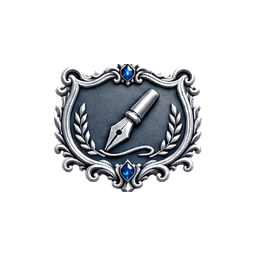
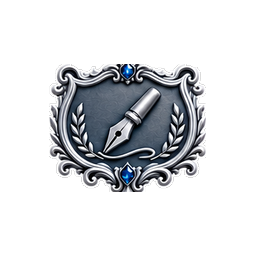
fix: preserve shield interior when slicing badge PNGs
RGB grids are not transparent uploads — stop global white keying that ate
silver highlights and engraving. Blob-find on content mask; key only sheet
white away from metal. Transparent RGBA sources slice crop-only.

Changed region(s): [[0.1875, 0.25, 0.8125, 0.75]]

diff --git a/scripts/slice-skill-tier-badges.py b/scripts/slice-skill-tier-badges.py
@@ -34,11 +34,72 @@ LEGACY_GUTTER_Y = 0.03
 ALPHA_THRESHOLD = 48
 KEY_WHITE_CUTOFF = 28
 KEY_WHITE_FEATHER = 52
+KEY_WHITE_SHEET_FLOOD = 18
+TRANSPARENT_BG_RATIO = 0.05
 
 
-def key_white_sheet_to_alpha(image: Image.Image) -> Image.Image:
-    """White sheet with no baked drop shadows — simple distance key is enough."""
-    return key_background_to_alpha(image)
+def source_has_transparent_background(image: Image.Image) -> bool:
+    """Owner grid with keyed sheet — slice is crop-only, no white-distance key."""
+    if image.mode not in ("RGBA", "LA"):
+        return False
+    rgba = image.convert("RGBA")
+    alpha = rgba.split()[3]
+    transparent = sum(1 for a in alpha.getdata() if a < 16)
+    return transparent > rgba.size[0] * rgba.size[1] * TRANSPARENT_BG_RATIO
+
+
+def _content_alpha_band(row_rgb: Image.Image) -> Image.Image:
+    """Mask for blob find — any pixel darker than sheet white counts as shield."""
+    rgba = row_rgb.convert("RGBA")
+    pixels = rgba.load()
+    width, height = rgba.size
+    for y in range(height):
+        for x in range(width):
+            r, g, b, _ = pixels[x, y]
+            if max(255 - r, 255 - g, 255 - b) > KEY_WHITE_SHEET_FLOOD:
+                pixels[x, y] = (r, g, b, 255)
+            else:
+                pixels[x, y] = (r, g, b, 0)
+    return rgba
+
+
+def key_cell_rgb_sheet(cropped: Image.Image) -> Image.Image:
+    """Transparent only for sheet-white pixels not near shield metal (engraving stays)."""
+    rgba = cropped.convert("RGBA")
+    width, height = rgba.size
+    pixels = rgba.load()
+    content = [
+        [
+            max(255 - pixels[x, y][0], 255 - pixels[x, y][1], 255 - pixels[x, y][2])
+            > KEY_WHITE_SHEET_FLOOD
+            for x in range(width)
+        ]
+        for y in range(height)
+    ]
+    near_content = [[False] * width for _ in range(height)]
+    reach = 2
+    for y in range(height):
+        for x in range(width):
+            if content[y][x]:
+                near_content[y][x] = True
+                continue
+            for dy in range(-reach, reach + 1):
+                for dx in range(-reach, reach + 1):
+                    ny, nx = y + dy, x + dx
+                    if 0 <= ny < height and 0 <= nx < width and content[ny][nx]:
+                        near_content[y][x] = True
+                        break
+                if near_content[y][x]:
+                    break
+
+    for y in range(height):
+        for x in range(width):
+            r, g, b, _ = pixels[x, y]
+            if near_content[y][x]:
+                pixels[x, y] = (r, g, b, 255)
+            else:
+                pixels[x, y] = (r, g, b, 0)
+    return rgba
 
 
 def key_background_to_alpha(image: Image.Image) -> Image.Image:
@@ -58,7 +119,7 @@ def key_background_to_alpha(image: Image.Image) -> Image.Image:
     return rgba
 
 
-def crop_cell_legacy(image: Image.Image, col: int, row: int) -> Image.Image:
+def crop_cell_legacy(image: Image.Image, col: int, row: int, *, sheet_alpha: bool) -> Image.Image:
     width, height = image.size
     cell_w = width / len(SKILLS)
     cell_h = height / len(TIERS)
@@ -77,7 +138,10 @@ def crop_cell_legacy(image: Image.Image, col: int, row: int) -> Image.Image:
     if row < len(TIERS) - 1:
         bottom -= cell_h * LEGACY_GUTTER_Y / 2
 
-    return image.crop((int(left), int(top), int(right), int(bottom)))
+    cropped = image.crop((int(left), int(top), int(right), int(bottom)))
+    if sheet_alpha:
+        return cropped.convert("RGBA")
+    return key_cell_rgb_sheet(cropped)
 
 
 def _column_counts(
@@ -188,7 +252,7 @@ def _split_row_blobs(keyed_row: Image.Image) -> list[tuple[int, int, int, int]]:
     return [(b[0], b[1], b[2], b[3]) for b in blobs[:len(SKILLS)]]
 
 
-def crop_cell_v2(image: Image.Image, col: int, row: int) -> Image.Image:
+def crop_cell_v2(image: Image.Image, col: int, row: int, *, sheet_alpha: bool) -> Image.Image:
     """Detect four badge blobs per row — v2 grid columns are not edge-aligned."""
     width, height = image.size
     cell_h = height / len(TIERS)
@@ -196,37 +260,48 @@ def crop_cell_v2(image: Image.Image, col: int, row: int) -> Image.Image:
     y1 = int((row + 1) * cell_h)
     pad_into_prev = int(cell_h * 0.14) if row > 0 else 0
 
-    row_rgb = image.crop((0, max(0, y0 - pad_into_prev), width, y1))
-    keyed_row = key_white_sheet_to_alpha(row_rgb)
+    row_box = (0, max(0, y0 - pad_into_prev), width, y1)
+    row_img = image.crop(row_box)
+    if sheet_alpha:
+        keyed_row = row_img.convert("RGBA")
+    else:
+        keyed_row = _content_alpha_band(row_img)
     blobs = _split_row_blobs(keyed_row)
 
     if len(blobs) < len(SKILLS):
-        return crop_cell_legacy(image, col, row)
+        return crop_cell_legacy(image, col, row, sheet_alpha=sheet_alpha)
 
     min_x, min_y, max_x, max_y = blobs[col]
     trimmed = _trim_vertical_bleed(keyed_row, (min_x, min_y, max_x, max_y))
     if trimmed[3] >= trimmed[1] and trimmed[2] >= trimmed[0]:
         min_x, min_y, max_x, max_y = trimmed
-    pad = max(3, int(cell_h * 0.03))
-    crop_box = (
-        max(0, min_x - pad),
-        max(0, min_y - pad),
-        min(keyed_row.size[0], max_x + pad + 1),
-        min(keyed_row.size[1], max_y + pad + 1),
-    )
-    return keyed_row.crop(crop_box)
+    crop_box = (min_x, min_y, max_x + 1, max_y + 1)
+    cropped = row_img.crop(crop_box)
+    if sheet_alpha:
+        return cropped.convert("RGBA")
+    return key_cell_rgb_sheet(cropped)
 
 
-def crop_cell(image: Image.Image, col: int, row: int, *, v2: bool) -> Image.Image:
+def crop_cell(
+    image: Image.Image,
+    col: int,
+    row: int,
+    *,
+    v2: bool,
+    sheet_alpha: bool,
+) -> Image.Image:
     if v2:
-        return crop_cell_v2(image, col, row)
-    return crop_cell_legacy(image, col, row)
+        return crop_cell_v2(image, col, row, sheet_alpha=sheet_alpha)
+    return crop_cell_legacy(image, col, row, sheet_alpha=sheet_alpha)
 
 
-def normalize_badge(cell: Image.Image) -> Image.Image:
+def normalize_badge(cell: Image.Image, *, sheet_alpha: bool) -> Image.Image:
     """Centre shield on a canvas — equal **height** across tiers (width may vary)."""
     if cell.mode != "RGBA":
-        cell = key_background_to_alpha(cell)
+        cell = key_cell_rgb_sheet(cell)
+    elif not sheet_alpha:
+        # Legacy RGBA from keyed row — already edge-keyed in crop_cell
+        pass
     bbox = _opaque_bbox(cell)
     if bbox is None:
         return cell
@@ -269,12 +344,15 @@ def main() -> None:
 
     OUT_DIR.mkdir(parents=True, exist_ok=True)
     grid = Image.open(source)
-    print(f"source {source.relative_to(ROOT)} (v2={v2})")
+    sheet_alpha = source_has_transparent_background(grid)
+    print(
+        f"source {source.relative_to(ROOT)} (v2={v2}, sheet_alpha={sheet_alpha})",
+    )
 
     for row, tier in enumerate(TIERS):
         for col, skill in enumerate(SKILLS):
-            cell = crop_cell(grid, col, row, v2=v2)
-            cell = normalize_badge(cell)
+            cell = crop_cell(grid, col, row, v2=v2, sheet_alpha=sheet_alpha)
+            cell = normalize_badge(cell, sheet_alpha=sheet_alpha)
             out = OUT_DIR / f"{skill}-{tier}.png"
             cell.save(out, format="PNG", optimize=True)
             print(f"wrote {out.relative_to(ROOT)}")

diff --git a/design/README.md b/design/README.md
@@ -32,8 +32,10 @@ the values from `app/globals.css` in SVG source files only.
 Method section graphics brief:
 [`docs/study/39-method-section-graphics-brief.md`](../docs/study/39-method-section-graphics-brief.md).
 
-Skill-tier badge grid: save the owner’s clean white sheet (no drop shadows) as
-`design/skill-tier-badges/source-grid-upload.png`, then
+Skill-tier badge grid: save the owner’s **4×5 grid as RGBA PNG** with a
+**transparent sheet** between cells (preferred — slice is crop-only). White RGB
+uploads still work; the script keys only border-connected white (not interior
+highlights). Save as `design/skill-tier-badges/source-grid-upload.png`, then
 `python3 scripts/slice-skill-tier-badges.py`. Chat image uploads are not written
 to the Cloud Agent VM — the PNG must be committed in git.
 
